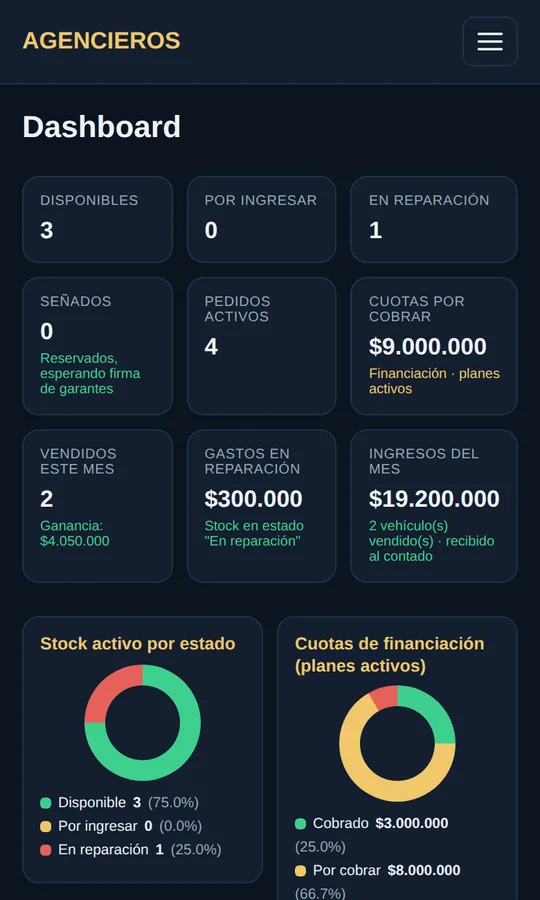
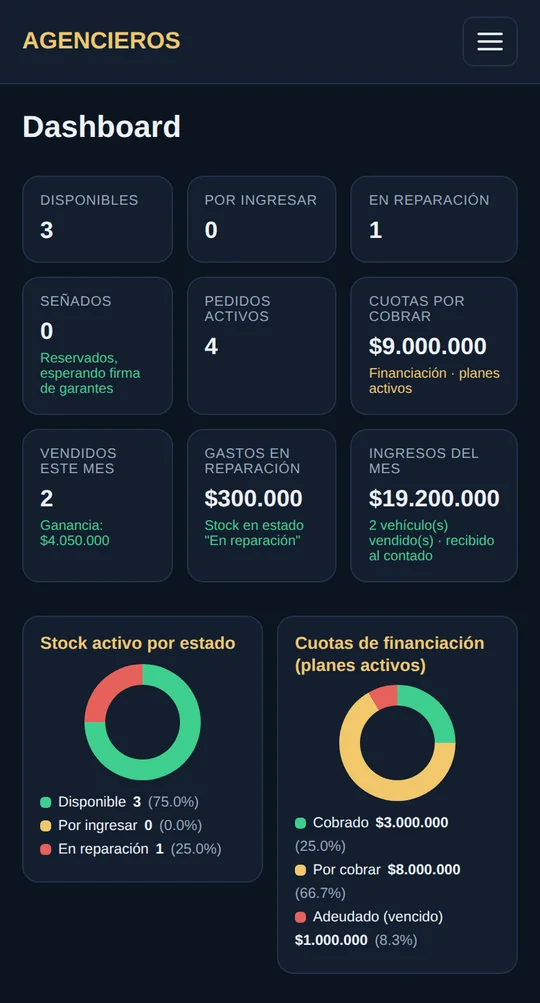
Landing: tipografia y tildes originales, sin fotos del stock propio, textos de Matches/cierre/pie
Claude-Session: https://claude.ai/code/session_01BYxF5d2n9A3ijLxF3ah7hi

diff --git a/templates/landing.html b/templates/landing.html
@@ -25,11 +25,10 @@
       --gold-light: #e6c47f;
       --text: #eceff4;
       --dim: #97a4b8;
-      --green: #5fc79a;
+      --green: #3ecf8e;
       --border: #1f2e46;
       --border-2: #2c3f5e;
-      --serif: "Iowan Old Style", "Palatino Linotype", Palatino, "Book Antiqua", Georgia, serif;
-      --sans: -apple-system, "Segoe UI", Roboto, "Helvetica Neue", Arial, sans-serif;
+      --sans: -apple-system, "Segoe UI", Roboto, Arial, sans-serif;
     }
     * { box-sizing: border-box; }
     html { scroll-behavior: smooth; -webkit-text-size-adjust: 100%; }
@@ -61,7 +60,7 @@
       backdrop-filter: blur(10px); -webkit-backdrop-filter: blur(10px); border-bottom: 1px solid var(--border);
     }
     .top .wrap { display: flex; align-items: center; justify-content: space-between; height: 68px; gap: 12px; }
-    .logo { font-family: var(--serif); font-weight: 700; letter-spacing: .22em; color: var(--gold-light); font-size: 1.05rem; }
+    .logo { font-weight: 800; letter-spacing: .06em; color: var(--gold-light); font-size: 1.2rem; }
     .top nav { display: flex; align-items: center; gap: 30px; }
     .top nav a.link { color: var(--dim); font-size: .9rem; letter-spacing: .02em; transition: color .2s; }
     .top nav a.link:hover { color: var(--text); }
@@ -73,9 +72,9 @@
       letter-spacing: .2em; text-transform: uppercase; color: var(--gold); margin-bottom: 22px;
     }
     .eyebrow::before { content: ""; width: 34px; height: 1px; background: var(--gold); }
-    h1, h2, h3 { font-family: var(--serif); font-weight: 600; font-variant-numeric: lining-nums; }
-    h1 { font-size: clamp(2.2rem, 6vw, 3.7rem); line-height: 1.1; margin: 0 0 22px; letter-spacing: -.01em; }
-    h1 em { font-style: italic; color: var(--gold-light); font-weight: 500; }
+    h1, h2, h3 { font-weight: 700; }
+    h1 { font-size: clamp(2.1rem, 6.4vw, 3.6rem); line-height: 1.08; margin: 0 0 22px; letter-spacing: -.02em; }
+    h1 em { font-style: normal; color: var(--gold-light); }
     .lead { color: var(--dim); font-size: clamp(1rem, 2.4vw, 1.13rem); margin: 0 0 32px; max-width: 32em; }
     .cta-row { display: flex; flex-wrap: wrap; gap: 12px; }
     .hero-note { margin-top: 18px; color: var(--dim); font-size: .84rem; letter-spacing: .02em; }
@@ -112,7 +111,7 @@
     }
     .showcase-track::-webkit-scrollbar { display: none; }
     .showcase-item { flex: 0 0 62%; max-width: 260px; scroll-snap-align: center; text-align: center; }
-    .showcase-item .cap { margin-top: 20px; font-family: var(--serif); font-weight: 600; font-size: 1.05rem; }
+    .showcase-item .cap { margin-top: 20px; font-weight: 700; }
     .showcase-item .sub { color: var(--dim); font-size: .84rem; margin-top: 3px; }
     .hint { text-align: center; color: var(--dim); font-size: .78rem; letter-spacing: .06em; margin-top: -4px; }
 
@@ -129,7 +128,7 @@
     /* ---------- Secciones ---------- */
     section.block { padding: 84px 0; }
     section.alt { background: var(--bg-2); border-top: 1px solid var(--border); border-bottom: 1px solid var(--border); }
-    .sec-title { font-size: clamp(1.7rem, 4.4vw, 2.5rem); line-height: 1.15; margin: 0 0 16px; letter-spacing: -.005em; }
+    .sec-title { font-size: clamp(1.6rem, 4.6vw, 2.4rem); line-height: 1.15; margin: 0 0 16px; letter-spacing: -.01em; }
     .sec-lead { color: var(--dim); margin: 0 0 30px; max-width: 36em; }
     .center { text-align: center; }
     .center .eyebrow { justify-content: center; }
@@ -138,15 +137,12 @@
 
     .split { display: grid; gap: 44px; align-items: center; }
     .split .phone { width: min(70vw, 268px); margin: 0 auto; }
-    .ticks { list-style: none; margin: 24px 0 0; padding: 0; display: grid; gap: 14px; }
-    .ticks li {
-      position: relative; padding: 0 0 14px 30px; color: #cfd7e4; border-bottom: 1px solid var(--border);
-    }
-    .ticks li:last-child { border-bottom: 0; padding-bottom: 0; }
+    .ticks { list-style: none; margin: 22px 0 0; padding: 0; display: grid; gap: 10px; }
+    .ticks li { position: relative; padding-left: 28px; color: #d3dbe8; }
     .ticks li::before {
-      content: ""; position: absolute; left: 0; top: 6px; width: 15px; height: 8px;
-      border-left: 1.5px solid var(--gold); border-bottom: 1.5px solid var(--gold); transform: rotate(-45deg) scale(.85);
-      transform-origin: center;
+      content: "\2713"; position: absolute; left: 0; top: 1px; width: 20px; height: 20px; border-radius: 50%;
+      background: rgba(62,207,142,.15); color: var(--green); font-size: .8rem; font-weight: 800;
+      display: flex; align-items: center; justify-content: center;
     }
     .status { display: inline-flex; align-items: center; gap: 8px; font-size: .74rem; font-weight: 600; letter-spacing: .14em; text-transform: uppercase; }
     .status::before { content: ""; width: 7px; height: 7px; border-radius: 50%; }
@@ -159,7 +155,7 @@
     .steps { display: grid; gap: 0; border: 1px solid var(--border); border-radius: 8px; background: var(--card); }
     .step { padding: 32px 28px; border-bottom: 1px solid var(--border); }
     .step:last-child { border-bottom: 0; }
-    .step .num { font-family: var(--serif); font-size: 2.4rem; line-height: 1; color: var(--gold); font-weight: 500; margin-bottom: 14px; }
+    .step .num { font-size: 2.2rem; line-height: 1; color: var(--gold-light); font-weight: 700; margin-bottom: 14px; }
     .step h3 { margin: 0 0 8px; font-size: 1.2rem; }
     .step p { margin: 0; color: var(--dim); font-size: .95rem; }
 
@@ -175,16 +171,16 @@
       margin: 20px 0 84px; border: 1px solid var(--border-2); border-radius: 8px; padding: 60px 26px; text-align: center;
       background: linear-gradient(180deg, rgba(207,160,74,.07), transparent 60%), var(--card);
     }
-    .final h2 { margin: 0 0 12px; font-size: clamp(1.7rem, 4.4vw, 2.4rem); line-height: 1.15; }
+    .final h2 { margin: 0 0 12px; font-size: clamp(1.6rem, 4.6vw, 2.4rem); line-height: 1.15; letter-spacing: -.01em; }
+    .final h2 .brand { color: var(--gold-light); }
     .final p { color: var(--dim); margin: 0 auto 30px; max-width: 30em; }
     .final .cta-row { justify-content: center; }
 
     footer { border-top: 1px solid var(--border); padding: 32px 0 44px; color: var(--dim); font-size: .85rem; }
-    footer .wrap { display: flex; flex-wrap: wrap; gap: 14px 30px; align-items: center; justify-content: space-between; }
-    footer .flogo { font-family: var(--serif); font-weight: 700; letter-spacing: .22em; color: var(--gold-light); }
+    footer .wrap { display: flex; justify-content: center; text-align: center; }
+    footer .flogo { font-weight: 800; letter-spacing: .06em; color: var(--gold-light); }
     footer a { transition: color .2s; }
     footer a:hover { color: var(--gold-light); }
-    footer .flinks { display: flex; gap: 24px; flex-wrap: wrap; }
 
     /* ---------- Compu ---------- */
     @media (min-width: 720px) {
@@ -284,9 +280,9 @@
             <div class="sub">Valor de referencia e historial por año</div>
           </div>
           <div class="showcase-item">
-            <figure class="phone"><img src="{{ url_for('static', filename='landing/m-stock.webp') }}" width="540" height="1168" alt="Listado de stock de vehículos con foto, precio y estado" loading="lazy"></figure>
-            <div class="cap">Stock ordenado</div>
-            <div class="sub">Fotos, estados y filtros</div>
+            <figure class="phone"><img src="{{ url_for('static', filename='landing/m-pedidos.webp') }}" width="540" height="1168" alt="Banco de pedidos: lo que busca cada cliente" loading="lazy"></figure>
+            <div class="cap">Banco de pedidos</div>
+            <div class="sub">Lo que busca cada cliente</div>
           </div>
           <div class="showcase-item">
             <figure class="phone"><img src="{{ url_for('static', filename='landing/m-tasacion.webp') }}" width="540" height="1169" alt="Tasación de una toma con qué hay que reparar y resultado" loading="lazy"></figure>
@@ -294,9 +290,9 @@
             <div class="sub">Inspección de 44 puntos</div>
           </div>
           <div class="showcase-item">
-            <figure class="phone"><img src="{{ url_for('static', filename='landing/m-ficha.webp') }}" width="540" height="1168" alt="Ficha comercial de un vehículo con fotos, datos y equipamiento" loading="lazy"></figure>
-            <div class="cap">Ficha para WhatsApp</div>
-            <div class="sub">Un link, sin que el cliente se registre</div>
+            <figure class="phone"><img src="{{ url_for('static', filename='landing/m-dashboard.webp') }}" width="540" height="1003" alt="Dashboard con stock por estado, ventas y gastos" loading="lazy"></figure>
+            <div class="cap">Dashboard</div>
+            <div class="sub">Tu agencia de un vistazo</div>
           </div>
           <div class="showcase-item">
             <figure class="phone"><img src="{{ url_for('static', filename='landing/m-red.webp') }}" width="540" height="1168" alt="Red de Agencieros: ofertas y búsquedas de otras agencias" loading="lazy"></figure>
@@ -374,7 +370,7 @@
           </ul>
         </div>
         <div class="split-media">
-          <figure class="phone"><img src="{{ url_for('static', filename='landing/m-dashboard.webp') }}" width="540" height="900" alt="Dashboard con stock por estado, ventas y gastos" loading="lazy"></figure>
+          <figure class="phone"><img src="{{ url_for('static', filename='landing/m-dashboard.webp') }}" width="540" height="1003" alt="Dashboard con stock por estado, ventas y gastos" loading="lazy"></figure>
         </div>
       </div>
     </section>
@@ -412,7 +408,7 @@
           <div class="mod"><svg class="ico"><use href="#i-users"/></svg><div><h3>Red de Agencieros</h3><p>Ofertas y búsquedas entre agencias para mover más autos, con contacto directo.</p><span class="status live">Disponible</span></div></div>
           <div class="mod"><svg class="ico"><use href="#i-chart"/></svg><div><h3>Dashboard</h3><p>Stock, pedidos, ventas, gastos y ganancia del mes en una sola pantalla.</p><span class="status live">Disponible</span></div></div>
           <div class="mod"><svg class="ico"><use href="#i-bank"/></svg><div><h3>Financiación propia</h3><p>Simulador de cuotas y seguimiento de cobros de tus planes.</p><span class="status soon">Próximamente</span></div></div>
-          <div class="mod"><svg class="ico"><use href="#i-target"/></svg><div><h3>Matches</h3><p>Cruce automático entre lo que buscan tus clientes y lo que hay en stock.</p><span class="status soon">Próximamente</span></div></div>
+          <div class="mod"><svg class="ico"><use href="#i-target"/></svg><div><h3>Matches</h3><p>Cruce automático entre lo que buscan tus clientes y lo que hay en tu stock, por entrar o en la Red.</p><span class="status soon">Próximamente</span></div></div>
         </div>
       </div>
     </section>
@@ -420,7 +416,7 @@
     <!-- ===== CTA final ===== -->
     <div class="wrap">
       <div class="final">
-        <h2>Probá AGENCIEROS con tu agencia.</h2>
+        <h2>Probá <span class="brand">AGENCIEROS</span> en tu negocio.</h2>
         <p>Registrate en un minuto y empezá a cargar tu stock hoy.</p>
         <div class="cta-row">
           <a class="btn btn-gold" href="{{ app_url }}{{ url_for('auth.registro') }}">Registrá tu agencia</a>
@@ -433,11 +429,6 @@
   <footer>
     <div class="wrap">
       <div><span class="flogo">AGENCIEROS</span> &nbsp;·&nbsp; Consultá, tasá, comprá, vendé.</div>
-      <div class="flinks">
-        <a href="{{ app_url }}{{ url_for('auth.login') }}">Ingresar</a>
-        <a href="{{ app_url }}{{ url_for('auth.registro') }}">Registrarse</a>
-        {% if whatsapp_numero %}<a href="https://wa.me/{{ whatsapp_numero }}?text=Hola!%20Quiero%20conocer%20AGENCIEROS">Escribinos por WhatsApp</a>{% endif %}
-      </div>
     </div>
   </footer>
 

diff --git a/app.py b/app.py
@@ -13,9 +13,6 @@ from storage import uploads_dir
 LANDING_HOSTS = {"agencieros.net.ar", "www.agencieros.net.ar"}
 APP_URL = os.environ.get("APP_URL", "https://app.agencieros.net.ar").rstrip("/")
 LANDING_URL = os.environ.get("LANDING_URL", "https://agencieros.net.ar").rstrip("/")
-# Número de WhatsApp comercial que se muestra en el pie de la landing (solo
-# dígitos, con 549). Si no está definido, el botón de WhatsApp no se muestra.
-LANDING_WHATSAPP = "".join(ch for ch in os.environ.get("LANDING_WHATSAPP", "") if ch.isdigit())
 
 
 def _es_host_landing():
@@ -198,7 +195,6 @@ def create_app():
             "landing.html",
             app_url=APP_URL if en_landing else "",
             landing_url=LANDING_URL,
-            whatsapp_numero=LANDING_WHATSAPP,
         )
 
     @app.route("/")
